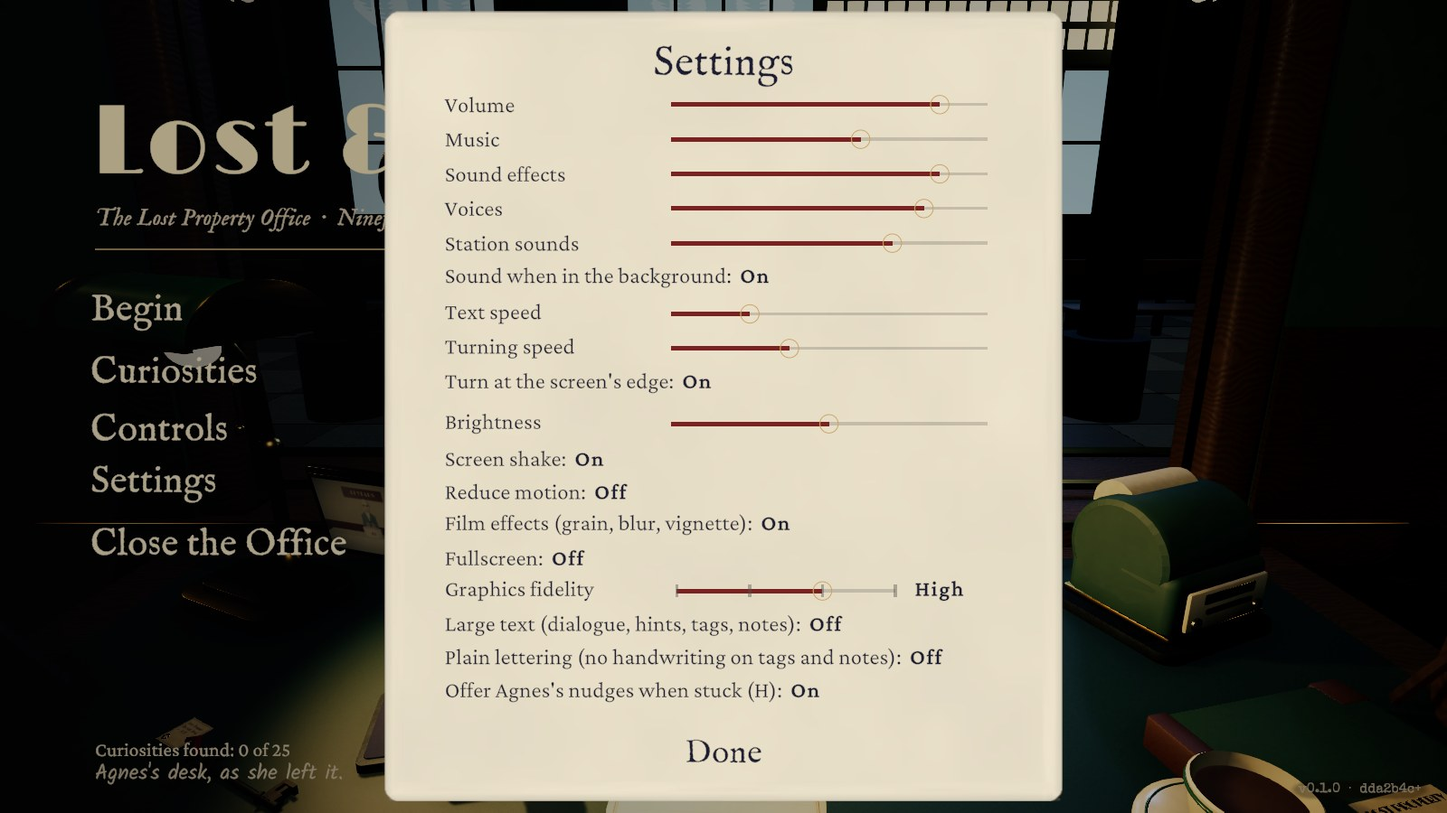
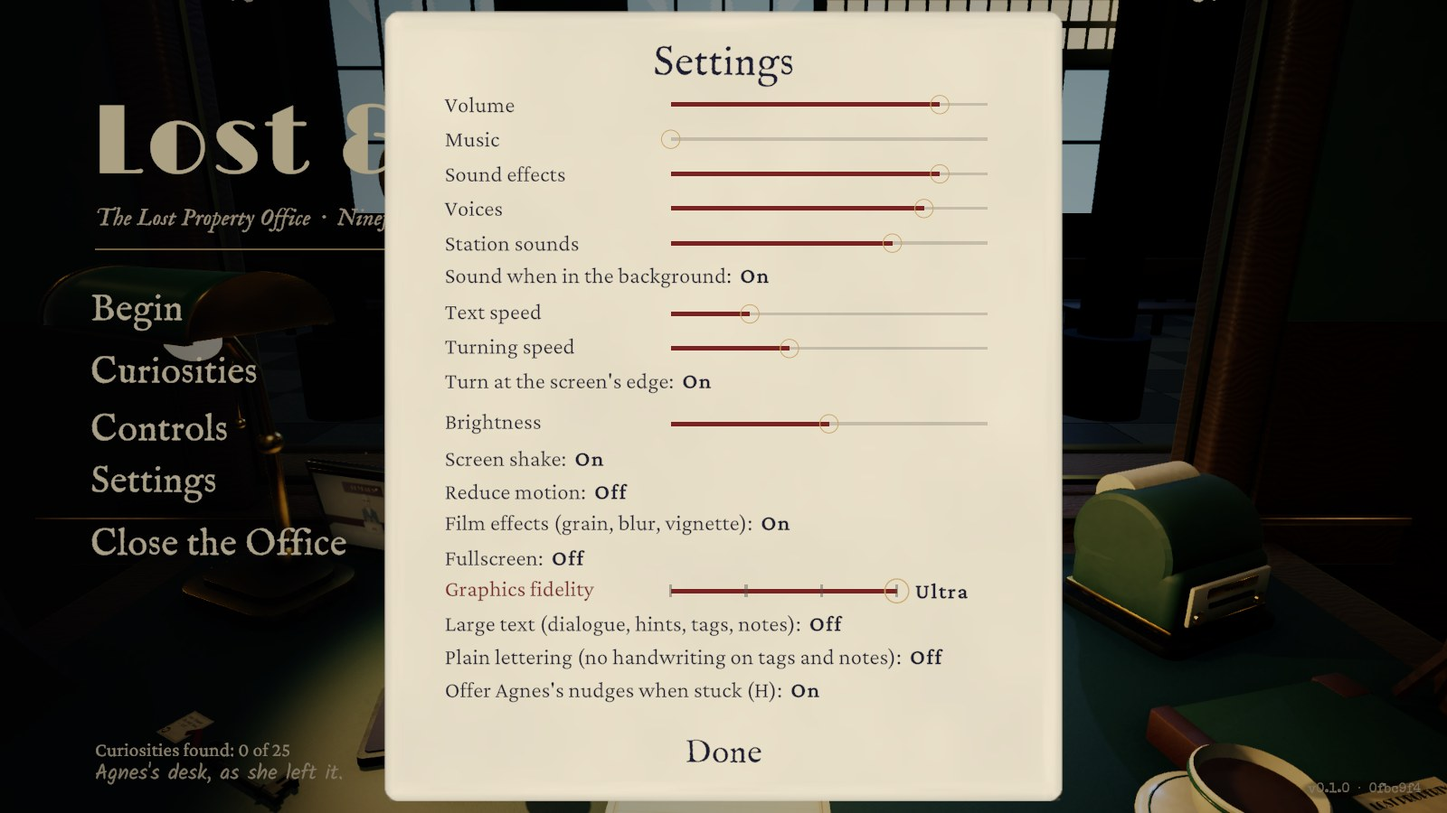
Docs: round 12 results, the fidelity steps' table, README status

diff --git a/README.md b/README.md
@@ -154,7 +154,7 @@ Every evening the **Day Ledger** marks each case against the rules and explains 
 2. Unzip it and run `LostAndFound.x86_64` (`chmod +x LostAndFound.x86_64` first if your unzip tool dropped the permission).
 3. On a Wayland desktop, if the window doesn't appear, run it with `SDL_VIDEODRIVER=wayland ./LostAndFound.x86_64`.
 
-The build is 64-bit Linux with Vulkan. Saves and settings live in `~/.config/unity3d/Nearby/Lost & Found/` (`lostandfound_save.json` and `settings.json`; v0.1.0 kept its settings in Unity's `prefs` file in the same folder, and they're brought over the first time this version starts). Each save swaps in whole and keeps the one before as `lostandfound_save.json.bak`, so a crash mid-save can't lose the week. A save that can't be read is set aside as `.damaged` (never deleted), and the title says so. The window opens at 1600×900, or smaller on a smaller screen so it always fits with its title bar; *Fullscreen* in Settings fills the screen. The window can be any shape: one narrower than 16:9 (4:3, or snapped to half the screen) sees the whole width of the desk, with more above and below. While another window has the focus the game draws only 10 frames a second, and *Sound when in the background* in Settings can silence it there. If the desk looks too dark on your screen (or too bright), *Brightness* in Settings lifts or lowers the scene without touching the paper and text; *Turn at the screen's edge* there stops the desk turning when the pointer rests at the side of the window. If it runs slowly, try a lower *Picture quality* in Settings; *Large text* there makes the dialogue, hints, tags and notes 25% bigger, and *Plain lettering* writes the tags, the claim slip and Agnes's notes, rules and nudges in a clear book face instead of handwriting.
+The build is 64-bit Linux with Vulkan. Saves and settings live in `~/.config/unity3d/Nearby/Lost & Found/` (`lostandfound_save.json` and `settings.json`; v0.1.0 kept its settings in Unity's `prefs` file in the same folder, and they're brought over the first time this version starts). Each save swaps in whole and keeps the one before as `lostandfound_save.json.bak`, so a crash mid-save can't lose the week. A save that can't be read is set aside as `.damaged` (never deleted), and the title says so. The window opens at 1600×900, or smaller on a smaller screen so it always fits with its title bar; *Fullscreen* in Settings fills the screen. The window can be any shape: one narrower than 16:9 (4:3, or snapped to half the screen) sees the whole width of the desk, with more above and below. While another window has the focus the game draws only 10 frames a second, and *Sound when in the background* in Settings can silence it there. If the desk looks too dark on your screen (or too bright), *Brightness* in Settings lifts or lowers the scene without touching the paper and text; *Turn at the screen's edge* there stops the desk turning when the pointer rests at the side of the window. *Graphics fidelity* in Settings has four steps: **High** (the default) is the desk as designed; **Ultra** supersamples and adds 4× MSAA, sharper and finer shadows, fuller ambient occlusion, a 64-bit colour buffer and more dust in the lamp's light, for a strong graphics card; **Medium** and **Low** trade the look for frame rate on a weak one (Low has no ambient occlusion, depth of field, reflections or dust). If it runs slowly, try a lower step; *Large text* there makes the dialogue, hints, tags and notes 25% bigger, and *Plain lettering* writes the tags, the claim slip and Agnes's notes, rules and nudges in a clear book face instead of handwriting.
 
 **Reporting a problem:** the title's bottom-right corner says which build you're playing, as `v0.1.0 · ed71667`: the version and the commit it was built from (a `+` after it means the build had changes that weren't committed). Put that in a bug report, with what you were doing (the day and the claimant) and the player log: on Linux `~/.config/unity3d/Nearby/Lost & Found/Player.log` (the run before is `Player-prev.log`), and on a Mac, where it hasn't been tried, Unity writes it to `~/Library/Logs/Nearby/Lost and Found/Player.log`. The log's first lines name the build too. If the save is involved, `lostandfound_save.json` from the Linux folder above helps.
 
@@ -198,7 +198,7 @@ All generated assets are committed, so you only need to regenerate them if you c
 
 | Check | Command | What it proves |
 |---|---|---|
-| **Unit tests** | `Tools/unity.sh test` (results in `Logs/test-results.xml`) | 131 EditMode tests over the real content, no player needed: the validator, the solver deriving every case's best verdict, all three endings from whole weeks played in memory (the AutoPilot's three policies), Thursday's choice swapping Friday's case, scoring, when each rule arrives, story-flag expressions, every detail having a hotspot or a part that reveals it, short names, the save file's round trip (including mid-day progress, endings reached, and old saves) and its crash safety (a truncated, empty or garbage save, a failed write), strays only leaving after their last case, the Curiosities count, and Agnes's nudges (every claim of the `best` and `worst` weeks followed nudge by nudge to a decision, with keyboard and gamepad wording: only rules already handed over, no unfound finding quoted, no stamp named, and the decision nudge agreeing with the solver), the transcript beside the slip (every speaker named, two claimants never sharing a name), the settings file (round trip, a damaged file giving the defaults), which menu choices ask before undoing claims, the size of the window on a small screen, the ledger book's pages (only days already closed, each drawn from the state its own evening left, a replay dropping the days after it), the camera keeping the 16:9 view's width on a narrower window, what the hint says a stamp will do over each half of the slip, and when a pointer has left the window by its side. |
+| **Unit tests** | `Tools/unity.sh test` (results in `Logs/test-results.xml`) | 136 EditMode tests over the real content, no player needed: the validator, the solver deriving every case's best verdict, all three endings from whole weeks played in memory (the AutoPilot's three policies), Thursday's choice swapping Friday's case, scoring, when each rule arrives, story-flag expressions, every detail having a hotspot or a part that reveals it, short names, the save file's round trip (including mid-day progress, endings reached, and old saves) and its crash safety (a truncated, empty or garbage save, a failed write), strays only leaving after their last case, the Curiosities count, and Agnes's nudges (every claim of the `best` and `worst` weeks followed nudge by nudge to a decision, with keyboard and gamepad wording: only rules already handed over, no unfound finding quoted, no stamp named, and the decision nudge agreeing with the solver), the transcript beside the slip (every speaker named, two claimants never sharing a name), the settings file (round trip, a damaged file giving the defaults), which menu choices ask before undoing claims, the size of the window on a small screen, the ledger book's pages (only days already closed, each drawn from the state its own evening left, a replay dropping the days after it), the camera keeping the 16:9 view's width on a narrower window, what the hint says a stamp will do over each half of the slip, when a pointer has left the window by its side, and the graphics fidelity steps (four, High as designed, each at least as costly as the one below, an old saved Picture quality reading the same). |
 | **Content validator** | runs in every `build-linux`, or `Tools/unity.sh run LostAndFound.EditorTools.BuildScript.ValidateContent` | The rules solver, using only what's discoverable at the desk, derives each case's authored best verdict. Current result: 28 objects, 5 days, 25 cases, 0 issues. |
 | **AutoPilot** | `Tools/unity.sh autopilot [speed] [startDay] [best\|worst\|wait\|refuse]` | The built player plays the whole week through the real desk systems, with a screenshot of every case (plus each day's rules card and first tag). `best` gets 24/24 and *The 9:40*; `worst` gives Vell everything and reaches *Grey Ninefold*; `wait` refuses Thomas the ring and reaches *The Long Wait*; `refuse` refuses everything (the fullest the shelves get, and Gus's basement trips). With the player's `-lafQuitAfter <case>` and then `-lafContinue`, it checks that *Continue* resumes mid-day. Add `-lafTranscript` to ask about every finding and check that the card beside the slip holds every line said, on screen and clear of the slip; `-lafTextAudit` to check every text on screen against its box, and against the other texts on the same card or panel, at each screenshot, and that no reading panel (the speech bubble, Agnes's notes, the tag, the nudge, the card beside the slip, the rules peek) is drawn over another's letters and the speech bubble isn't over anyone's face; `-lafFaceWatch` to make that last check at the end of every frame rather than at screenshots (`[FaceWatch]`); `-lafPlainLettering` or `-lafTextSize 1` (or `-lafBrightness -1..1`) for one run in those settings. Before each verdict it holds the stamp over the slip with a virtual mouse (over both halves when two people claim) and checks the hint names the verdict, the item and the claimant (`[StampHint]`). Each morning it opens the ledger book on the desk, photographs every page and logs it as `[LedgerBook]`, to compare with that evening's `[Ledger]` line, and on the first morning checks the game's own picking can reach the book. `-lafHitches` logs every frame over 100 ms with what was happening, and `-lafNoShots` leaves out the screenshots (which stall a frame themselves) while it does. `LAF_AUTOPILOT_SAVE=<path>` lets several runs share one save (the week summary's endings count). Results are in `Logs/autopilot.log`. |
 | **Gamepad test** | `Tools/unity.sh padtest` | Plays Monday's first case with only a virtual Input System gamepad (cursor, right stick, buttons, and the d-pad's left for two nudges in pad wording), counts any keyboard or mouse events during play (there should be none), then checks that moving a mouse takes control back. |
@@ -207,7 +207,9 @@ All generated assets are committed, so you only need to regenerate them if you c
 | **Nudge tour** | `Tools/unity.sh nudgetour [speed] [w] [h] [player args]` | The AutoPilot plays the week as a stuck player: at every stage of every claim it asks for every nudge, then does what they say. It picks up what glows, works the part that lights up, turns the object until the glint appears and clicks on the glint, and asks what it's told to ask. It checks the glint only shows where a click finds the detail, and that the hint bar offers a nudge after 90 s idle. Log in `Logs/nudgetour.log`. |
 | **Hotspot audit** | `Tools/unity.sh audit` (table in `Screenshots/hotspots/coverage.txt`) | Holds every object as the inspect view does, lids shut and open, through 1,500 orientations at two zooms, and asks the game's own picking code whether each hidden detail could be clicked. Then, for every day with nothing yet returned (the fullest storage gets), it checks that every stored object has a real slot and can be hovered from its shelf or open drawer. Fails if any detail or object falls under 10%, and saves a picture of each detail that does. |
 | **WebGL in Chrome** | `python3 Tools/serve_webgl.py Builds/WebGL &` then `python3 Tools/webgl_check.py --url 'http://127.0.0.1:8764/?lafSmoke=smoke' --out Logs/webgl/smoke --profile Logs/webgl/profile` | Plays the WebGL build in Chrome on the real GPU (headless, ANGLE on EGL), records the console, screenshots every `[Shot]` the game logs, and lists what the page keeps in IndexedDB. In a browser the game reads its `-laf…` options from the query string (and `?lafShot` makes the page itself log screenshots of its loading and error states), so the smoke test and AutoPilot run there too (`?lafAutopilot=x&lafQuitAfter=1.2`, then `?lafAutopilot=x&lafContinue` with the same `--profile` to check the save survived). |
-| **Smoke test** | `Tools/unity.sh smoke 30 [quality]` | Frame rate (uncapped) and errors over a hands-free run; `quality` 0, 1 or 2 overrides the picture quality for that run only. With `-lafShowSettings` or `-lafShowControls` it opens that card over the title, and `-lafTextAudit` audits its texts. |
+| **Smoke test** | `Tools/unity.sh smoke 30 [quality]` | Frame rate (uncapped) and errors over a hands-free run; `quality` 0 to 3 (Low to Ultra) overrides the graphics fidelity for that run only. With `-lafShowSettings` or `-lafShowControls` it opens that card over the title, and `-lafTextAudit` audits its texts; `-lafCardFrames` photographs Settings and the pause menu as they open and close, with *Reduce motion* off and on. |
+| **Fidelity bench** | `Tools/unity.sh fidelity [w] [h] [moments]` | Plays Monday's first claim and, at each named AutoPilot moment (by default the claimant at the window and the wallet in your hands), holds the game still and times every Graphics fidelity step over 400 uncapped frames, Low to Ultra and back (each step's figure is the mean of its two medians), photographing each step at the same moment. `[Fidelity]` lines with the load average in `Logs/fidelity.log`, pictures in `Screenshots/fidelity/`. `-lafUltraWithout msaa,hdr,dof,ao,shadows,cascades` leaves parts of Ultra out, to see what each costs and adds. |
+| **Menu test** | `Tools/unity.sh menutest [w] [h] [player args]` | The menus with only a virtual keyboard, then only a virtual gamepad: from the title's first item to Settings, the fidelity to Ultra (checked applied and saved) and back, `Esc`, Begin, the pause menu and its Controls card; then the pad's Menu, its d-pad and A through the same. Every step checked. Log in `Logs/menutest.log`. |
 | **Pointer test** | `Tools/unity.sh pointertest [w] [h]` | The real pointer at the window's sides: KWin's own pointer, moved through its fake-input protocol (`Tools/fakeptr.c`, which only connects to this script's private KWins), so the game hears enter, motion and leave as it would from a mouse. It rests just inside each side (the desk turns), leaves by each side briskly, at an ordinary pace and slowly and stays out (it mustn't), comes back in, and, with the window snapped against the screen's side, is flung against it (it turns). Before round 11, every exit at an ordinary pace turned the desk. Log in `Logs/pointertest.log`. |
 | **Real-input play** | `Tools/unity.sh realplay [until day] [w] [h]` | The filmed play's whole days (from the title, by default to Tuesday morning; `5` plays the week to the ending), with real input: the play's pointer moves, clicks, drags and key presses go to KWin's own pointer and keyboard, and the game reads them through SDL as it would a mouse and keyboard. On the first claim it also presses `H`, `Tab` and `Esc`, brings the object closer and back with the wheel, and puts it down with a right click. Passes with no fallbacks (nothing the play had to do directly because the input didn't) and every claim decided as the play meant. Nothing is recorded. Log in `Logs/realplay.log`. |
 | **Edge test** | `Tools/unity.sh edgetest [w] [h]` | Holds a virtual mouse at each side of the screen on Tuesday at the bell (slowing to a stop there, as a person does): the desk turns with *Turn at the screen's edge* on, doesn't with it off, and doesn't while another window has the focus (the headless KWin opens one once the test says it's ready), then turns again when the focus comes back. Log in `Logs/edgetest.log`. |
@@ -294,7 +296,7 @@ Since v0.1.0 (not released yet; see [docs/IMPROVEMENTS.md](docs/IMPROVEMENTS.md)
 - **Fairness fixes.** The lunch tin's rim was modelled as a solid slab that sealed it shut, so its sandwich and note (the evidence for Thursday's first case) couldn't be seen, and the frosted tin was stored inside the hatbox, where Wednesday's two cases couldn't pick it up. Both are fixed, along with other shelf and drawer overlaps. The new hotspot audit checks every hidden detail and every stored object, and the filmed play now finds all 53 details it looks for across the week by hand. The original takes needed the recorder's fallback 16 times.
 - Hints and the inspect bar are legible over the claim slip (6.5:1 contrast, from about 1:1).
 - Agnes's rules are on a card on the desk (hover it, or press `R` at any time), and the inspect bar and Day Ledger count your findings.
-- 42 unit tests; a macOS build target, app icon and bundle identifier; a release packaging script; a *Picture quality* setting.
+- 42 unit tests; a macOS build target, app icon and bundle identifier; a release packaging script; a *Picture quality* setting (round 12's *Graphics fidelity*).
 - Round 2: shelves that never overflow (an umbrella stand, and Gus's basement for unclaimed strays); *Continue* resumes mid-day; the Curiosities page; a *Large text* option; gamepad support.
 - Round 4: **quick clicks and taps are never lost** (a touchpad's tap-to-click, or any click on a slow frame, used to be dropped); **a crash can't cost you the week** (saves swap in whole and keep a backup); a **Controls** card in the pause menu and on the title; editor test runs no longer touch your settings either; and the WebGL build plays at 60 fps on a real GPU and keeps its save in the browser.
 - Round 5: **what they said is written beside the slip** whenever you read it (your questions and their answers included), so an answer can be read again; the slip's own writing is no longer stuck at its smallest size on longer claims; a *Plain lettering* option for the handwriting; settings kept in `settings.json` beside the save (v0.1.0's ended up in a folder Unity shares between games); a WebGL page of the game's own; and README screenshots from the current build. A text audit now checks every text against its box during the AutoPilot. There are 70 unit tests.
@@ -304,6 +306,7 @@ Since v0.1.0 (not released yet; see [docs/IMPROVEMENTS.md](docs/IMPROVEMENTS.md)
 - Round 9: **the week's ledger at hand**: the ledger book on the desk (or *The week so far* in the pause menu) holds every closed day's Day Ledger page as it was that evening, Gazette included, and Gus mentions it on Tuesday. A **Brightness** setting for the dark desk, and **Turn at the screen's edge** to stop the pointer turning the desk. The title's corner names the build (version and commit), and the README says where the log is for a bug report. Every test window now opens in a private headless KWin, never on the desktop. There are 92 unit tests.
 - Round 10: **a window of any shape sees the whole desk**: one narrower than 16:9 (4:3, or snapped to half the screen) used to lose the lamp, the printer, the ledger book and half the object in your hands off its sides, and at half a 1080p screen the speech bubble sat over every claimant's face. **What a stamp will do is said before it lands** ("RETURN: give the silver locket to Cecily Fairweather"), following the half of the slip when two people claim one thing. Agnes's notes no longer open over the line before them. The text audit now also checks reading panels over each other and the bubble over faces. There are 111 unit tests.
 - Round 11: **a pointer leaving the window doesn't turn the desk**: checked at last with a real pointer (KWin's own, in the private test desktop), leaving a window by its side at an ordinary pace turned the desk every time; now it doesn't, while resting at the side still turns it. **The speech bubble never slides across a face** (a new check of every frame found it doing so at the start of most claims, for a moment), and **it's as tall as its line** instead of a box sized for five. **`Esc` closes the pause menu**, as it does every other card. And a whole week has been played with **real input**, the compositor's own pointer and keyboard rather than devices simulated inside the game: every claim decided by real clicks, drags, keys and the wheel. There are 131 unit tests.
+- Round 12: **a Graphics fidelity setting** of four steps, Low, Medium, High (the default, the desk as designed) and Ultra (supersampled, 4× MSAA, sharper shadows, fuller ambient occlusion), each pictured at the same moment and timed in `docs/media/improvements/round12/`; **the brass, glass and glaze reflect the room** (there was nothing for them to reflect) and dust drifts in the lamp's light; **every menu works from the keyboard and the pad's d-pad**, with a visible focus; and **cards open and close** instead of appearing and vanishing in a frame. There are 136 unit tests.
 - Round 3: **Agnes's nudges** for a stuck player (`H` or the d-pad's left): step by step, ending with a glint on the spot a click would find. The Linux download is **22% smaller** (111 MB zipped, from 143 MB) through compressed meshes. A WebGL build can be made and measured (`build-webgl`, not released). The test tools can no longer touch your real save or settings. There are now 53 unit tests.
 
 Known gaps and rough edges:
@@ -318,6 +321,7 @@ Known gaps and rough edges:
 - **Real input, not real hardware.** The real-input play drives the compositor's own pointer and keyboard, so everything from KWin through SDL into the game is checked, but the events don't come from a physical mouse, touchpad or keyboard, and pointer acceleration isn't involved. In that play the turning search couldn't bring one hidden detail into view (the ring's date, which shows from about one turn in seven) and found it directly; with simulated input it happens to find it at once. The drags themselves turn the object by what they should. Once in twelve runs the play's click took up the stamp beside the one it aimed at (the retry took the right one); why isn't known.
 - The ledger book on the desk sits in the bottom-right corner of the counter view, partly out of frame at 16:9 and wider (a narrower window shows it whole): the game's picking reaches it at every window shape tried, but a player may not notice it. Gus mentions it on Tuesday morning, and the pause menu has *The week so far*.
 - **A window narrower than 16:9** shows the whole width of the desk by showing more above and below it, so at half a 1080p screen (960×1080) the desk, the people and the object in your hands are drawn at about 60% of their size in a 1600×900 window (half what that window showed before round 10, when the sides were cut off). Everything fits and reads, but a 16:9 window or *Fullscreen* shows it best.
+- **Graphics fidelity has only been timed on this machine's integrated GPU while other test sessions shared it** (it read 99% busy without this game running), so the frame times in the round 12 notes are given against High in the same run as well as alone. Ultra on a discrete GPU or a 4K screen is unmeasured. The reflection probe is pictured once per desk, before anyone's at the window, so the claimant and the blue lamp don't show in the brass. Screen-space reflections, which URP has behind an experimental switch, weren't used (see round 12's notes).
 - Starting *A New Week* clears the curiosities you've found along with the rest of the save (the endings you've reached are kept). Whether curiosities should carry over between weeks is an open design question.
 - WebGL isn't released or hosted. It builds as a 65 MB download (last rebuilt in round 10, with everything above), plays at 60 fps in Chrome on this machine's GPU (a Radeon 8060S iGPU) when the machine is quiet (43–52 fps with other work running), with the desktop's picture, and its save survives closing the browser. It's been checked in Chrome only (headless, on the real GPU), not Firefox or Safari, and nobody has played it by hand. It has a page of its own: the game fills the window at 16:9, with a loading bar, a fullscreen button, plain words if the browser has no WebGL 2, and a warning (before the 65 MB download) on phones and tablets. See [docs/IMPROVEMENTS.md](docs/IMPROVEMENTS.md), round 4.
 - The trailer and the teaser loop at the top were filmed for v0.1.0, before these fixes (the trailer's umbrellas still lie on the shelf, its lunch tin was sealed, and there are no nudges). The screenshots were re-cut in round 5 from new takes of the current build (`make_trailer.py stills --takes r5_`), and the ledger's again in round 6 from the AutoPilot, for its new layout; re-cutting the trailer is the owner's call.

diff --git a/docs/IMPROVEMENTS.md b/docs/IMPROVEMENTS.md
@@ -1501,3 +1501,83 @@ build size, and look right on the desk: Ultra gets them. Otherwise written up.
 Final checks after the last item: Linux build and validator, unit tests, the audit, the four AutoPilot policies with the text
 audit and face watch, the nudge tour, the padtest, the taptest, the edge test, the pointer test, the new menutest, the
 fidelity bench, the soak, and the real config folder compared with its state at the start of the round.
+
+## Round 12 results (8 Oct 2026)
+
+All four planned items landed on `improvements-12`, one commit each; the stretch (screen-space reflections) didn't, for the
+reasons below. Pictures and logs are in [`media/improvements/round12/`](media/improvements/round12/). Load average 17–72 from
+the other sessions on the machine, noted with each run. **The GPU was shared throughout:** this machine's Radeon 8060S read
+99% busy with none of this round's runs going (six other sessions' Unity players), so frame times here measure contention as
+much as the game (see the table's notes).
+
+| Item | Result | How it was verified |
+|---|---|---|
+| **R12-A. Graphics fidelity: Low, Medium, High, Ultra** (`b02f63a`) | *Picture quality*'s button grows into a **Graphics fidelity** slider of four steps, saved under the same key, so a saved Low, Medium or High reads the same; High stays the default and the game as designed. Ultra: 1.25× supersampling, 4× MSAA under SMAA High, 4096 shadow maps (sun and lamp) with four cascades, ambient occlusion at full resolution with 12 samples, high-quality depth-of-field sampling, 16× anisotropic filtering forced everywhere, and a 64-bit HDR colour buffer (smoother gradients in the dark). Low and Medium as round 1 had them, plus no ambient occlusion on Low and half-resolution occlusion on Medium. Changes apply at once. URP's high-quality bloom filtering was tried for Ultra and left out: it about doubled the bloom and washed out the desk (found by leaving each part of Ultra out in turn, `-lafUltraWithout`). The bench: `-lafFidelityBench` holds the AutoPilot still at chosen moments, applies each step, times it Low to Ultra and back, and photographs it. | 5 new unit tests (136 in all): four steps, High as designed, each step at least as costly as the one below, round 1's saved 0–2 reading the same, Ultra saved and out-of-range clamped. Same-moment screenshots of every step at two moments (`fidelity_window_*.jpg`, `fidelity_inspect_*.jpg`, details at full size in `*_details.jpg`). The menu test sets Ultra with the keyboard and the pad and checks it's applied and in `settings.json`. A whole `best` week on Ultra and one on Low: 24/24, clean text audit, 0 face frames. Frame times below. |
+| **R12-C. Light on brass and glass** (`7eedae3`) | The scene had no sky and no reflection probe, so polished metal, glaze and glass reflected black. A box-projected probe over the desk is rendered by the game once the desk is built and again on a fidelity change (64 on Medium, 128 on High, 256 on Ultra, none on Low): the lamp's brass arm and shade rim, the bell, the station clock and the printer's trim now pick up the room. Realtime probes were off in the project's quality levels; the game switches them on only to render this one, which refreshes by script alone. Dust drifts in the lamp's cone (24 motes on Medium, 48 on High, 120 on Ultra, none on Low), with an additive particle material kept in Resources so its shader ships. | Before (round 11 build) and every step at the same moment: `reflections_before_low_medium_high_ultra.jpg` (Low matches before). `[Reflections]` logs the probe's render in every run. Soak: live objects flat over the last 10 of 30 cycles (materials 686, textures 207, GameObjects 551; round 11 had 681, 203, 548). Whether High costs more than round 11's High couldn't be told on the shared GPU: an A/B with the probe left out (`-lafNoProbe`) gave 4–23 ms either way, run to run. |
+| **R12-B. Menus with the keyboard and the pad** (`ab142f2`) | On whichever card is on top (the title and its pages, the pause menu, Settings, Controls, the ledger and week pages), `↑` `↓` and the pad's d-pad move a focus between buttons and sliders (round from the last to the first), `Enter`/`Space` press, `←` `→` move a slider or step the fidelity. The focus looks like the hover with an underline and sounds like it; the pad's cursor follows it (just past the words), so A presses through the ordinary click. A card opened from the keys or the pad starts focused, and closing one puts the focus back where it was. Moving the mouse or the stick hands the menus back to the pointer. In a menu the d-pad no longer also works the lamp, the bell or a nudge. Also: `Esc` closes Settings, as it does Controls, the rules, the Curiosities and the pause menu (the day's ledger, the ending and the week's page still close only by their buttons); buttons show a press; and the Controls card and README list the menu keys. | New `Tools/unity.sh menutest`: a virtual keyboard, then a virtual pad, from the title to Settings, the fidelity to Ultra (applied, saved) and back, `Esc`, Begin, the pause menu, its Controls card, and out; then the same with Menu, the d-pad and A. **PASS, 24 checks**, text audit clean on its 7 screenshots. It covers the title, Settings, the pause menu and Controls; the ledger, ending and week pages get the same focus but no test drives them (`menutest.txt`, `menu_focus_keyboard_and_pad.jpg`). Tap test 14/14, pad test, edge test and pointer test pass. A first underline sat on the descender line and struck through the caption under Controls' *Back*; it now sits under the baseline. |
+| **R12-D. Cards that open and close** (`0fbc9f4`) | Settings, the pause menu, Controls, Agnes's rules, the week's ledger and the Curiosities appeared and vanished in one frame. They now fade in with their dim while the card rises a few pixels and settles from 97% (0.2 s), and fade out (0.14 s) once put away, already closed as far as the game, the menus and the pointer are concerned. Instant with *Reduce motion*. The title, the day's ledger, the ending and the week's page already faded and are left alone. | Smoke `-lafCardFrames`: Settings and the pause menu photographed as they open and close (`cards_open_close.jpg`, times in `cards_timing.txt`; each capture stalls a frame, so the shots land about 100 ms apart rather than at 0/60/120/240 ms): empty at +5 ms, arriving at +95 ms, whole at +236 ms; half gone at +77 ms on closing. With *Reduce motion* the first frame after opening is the whole card and the first after closing is clear. The menu test and every AutoPilot week below pass with it. |
+
+### Graphics fidelity: the steps
+
+| Step | What it sets | Frame time, claimant at the window | Frame time, wallet in hand | Against High in the same run (window / in hand, median of 6 runs) |
+|---|---|---|---|---|
+| **Low** | Render scale 0.7, 512 shadow maps with Low soft-shadow filtering, FXAA, no ambient occlusion, no depth of field, quarter-resolution bloom, each texture's own filtering, no reflection probe, no dust | 2.75 ms | 2.56 ms | 0.66× / 0.76× |
+| **Medium** | Render scale 0.85, 1024 shadow maps (Medium softness), SMAA Medium, ambient occlusion at half resolution with 4 samples, depth of field, 64 probe, 24 motes | 2.98 ms | 4.20 ms | 0.84× / 0.88× |
+| **High** (default) | The game as designed: render scale 1, 2048 shadow maps (High softness), SMAA High, full-resolution ambient occlusion with 8 samples, depth of field; plus this round's 128 probe and 48 motes | 4.35 ms | 4.72 ms | 1 |
+| **Ultra** | 1.25× supersampling, 4× MSAA under SMAA High, 4096 shadow maps with four cascades, ambient occlusion with 12 samples, high-quality depth-of-field sampling, 16× anisotropic filtering, a 64-bit HDR buffer, 256 probe, 120 motes | 10.35 ms | 11.78 ms | 1.19× / 1.26× |
+
+Frame times are the least-disturbed of 12 passes per step (six bench runs, each timing every step twice over 400 uncapped
+frames, vSync off) at 1600×900 on build `0fbc9f4`, load average 17–42 while they ran (`fidelity_bench.txt`). With the GPU shared,
+the median pass was 8–16 ms for every step, so absolute numbers on a free GPU will differ; the last column, each step against
+High in the same run, held its order in every run (Low 0.42–0.88×, Medium 0.72–0.96×, Ultra 1.07–1.70×). At 1920×1080 one
+run measured 10.5, 11.4, 14.2 and 17.3 ms at the window and 10.9, 14.8, 20.3 and 21.6 ms with the wallet in hand (load 19–22).
+Low stays well under a 60 Hz frame here; Ultra holds about 85–97 fps at 1600×900 on this iGPU in its best passes.
+
+### Final checks (final Linux build at `0fbc9f4`, load average 17–72)
+Linux build from a clean tree (`building commit 0fbc9f4`) and validator: 28 objects, 5 days, 25 cases, **0 issues**.
+**136/136 unit tests** (131 before). Audit: PASS, 84/84 details, 0 below 10%. AutoPilot with the text audit and the face watch:
+`best` 24/24 *The 9:40*, `worst` *Grey Ninefold*, `wait` *The Long Wait* (23/24) and `refuse` (6/24) at 1600×900; `best` 24/24
+at 960×1080, at 1024×768, and at 1600×900 on **Ultra** and on **Low**: **0 overflowing, 0 overlapping, 0 covered texts and 0
+covered faces at screenshots, and 0 frames with the bubble over a face** in all eight; every `[StampHint]` right (27 in each,
+22 in `worst`); 0 exceptions. Nudge tour: PASS, 210 nudges, 24/24, 21 details at the glint and 2 by the part that lit up. Soak,
+30 cycles: PASS, live objects flat over the last 10. Menu test PASS (24 checks), pad test PASS, tap test 14 of 14, edge test PASS
+(7 holds), pointer test PASS (13 phases), real-input play of Monday PASS (4 of 4 claims as meant, 11 details by hand, 0
+fallbacks, 0 hover misses); each input test started at load average under 24. Every player run in the headless KWin, and every
+one printed the guard's "untouched". The real `~/.config/unity3d/Nearby/Lost & Found/` was **identical (sizes, timestamps,
+hashes) at the end of the round and at its start**, and no `laf.` key appeared in `unknown/unknown/prefs`. Logs: the timeline
+with the load at each start and end in `final_checks_timeline.txt`; the rest under `Logs/r12/final/` locally.
+
+### Found along the way
+- **URP's high-quality bloom filtering about doubles the bloom** in this scene (above); Ultra keeps the default.
+- **TextMeshPro's text bounds reach down to the descender line**, so an underline placed under them hangs a few pixels low.
+- **The menu test's first run hung** on my own logging (describing a button destroyed with its card); the test now says
+  "nothing" there. The hung player was mine and was stopped.
+- **The iGPU is never idle while other sessions test**, which is why this round's frame times are given against High in the
+  same run as well as alone.
+
+### Not done, and why
+- **R12-E, screen-space reflections on Ultra.** URP 17.6 has them behind an experimental scripting define. Turning it on doubles
+  the Lit shader's fragment variants (longer builds, a bigger download), and the WebGL build uses the same PC renderer, where the
+  feature's class wouldn't exist without the define; doing it safely means a second renderer for Ultra on desktop only. Not
+  worth the risk for a stretch; the reflection probe covers the desk's metal.
+- **High against round 11's High** couldn't be measured within noise on the shared GPU. High's settings are round 11's apart
+  from the probe (rendered once, then sampled) and 48 motes.
+- **The probe is rendered once per desk**, before anyone is at the window, so the claimant and Thursday's blue lamp don't
+  appear in reflections. Re-rendering it as the scene changes would cost a hitch each time.
+- As round 11 left them: the ring's date in the real-input play's turning search, the one wrong stamp in twelve real-input runs,
+  real hardware, the ledger book's place at 16:9, the desk's size in a narrow window, the trailer, WebGL hosting, macOS on a Mac,
+  Windows, keyboard layouts other than US.
+
+### Still open after round 12
+- No human has played any of it, and nobody has looked at Ultra or Low on a monitor other than through screenshots.
+- Ultra on a 4K screen and on a discrete GPU is unmeasured; on this iGPU at 1920×1080 it ran at about 46–58 fps while shared.
+
+### Needs a decision from the owner
+- Unchanged from round 11: a last-stamp undo, the version number, the ledger book's place on the desk, fullscreen by default on
+  small screens, choosing a keyboard layout or rebinding keys, re-cutting the trailer and teaser (which show none of rounds
+  2–12), hosting WebGL, curiosities across weeks, installing tools outside the repo, and the licence, releases and tags,
+  signing, and Windows Build Support.
+- Whether High (the default) should stay as designed or move a step towards Ultra on machines that can afford it (an
+  automatic choice by GPU would need testing on hardware this machine doesn't have).
+- The WebGL build wasn't rebuilt this round; it would get the fidelity setting, the menus and the card motion as they are.
+- Whether to clear the 64 helper processes earlier rounds left running (round 11's question).
